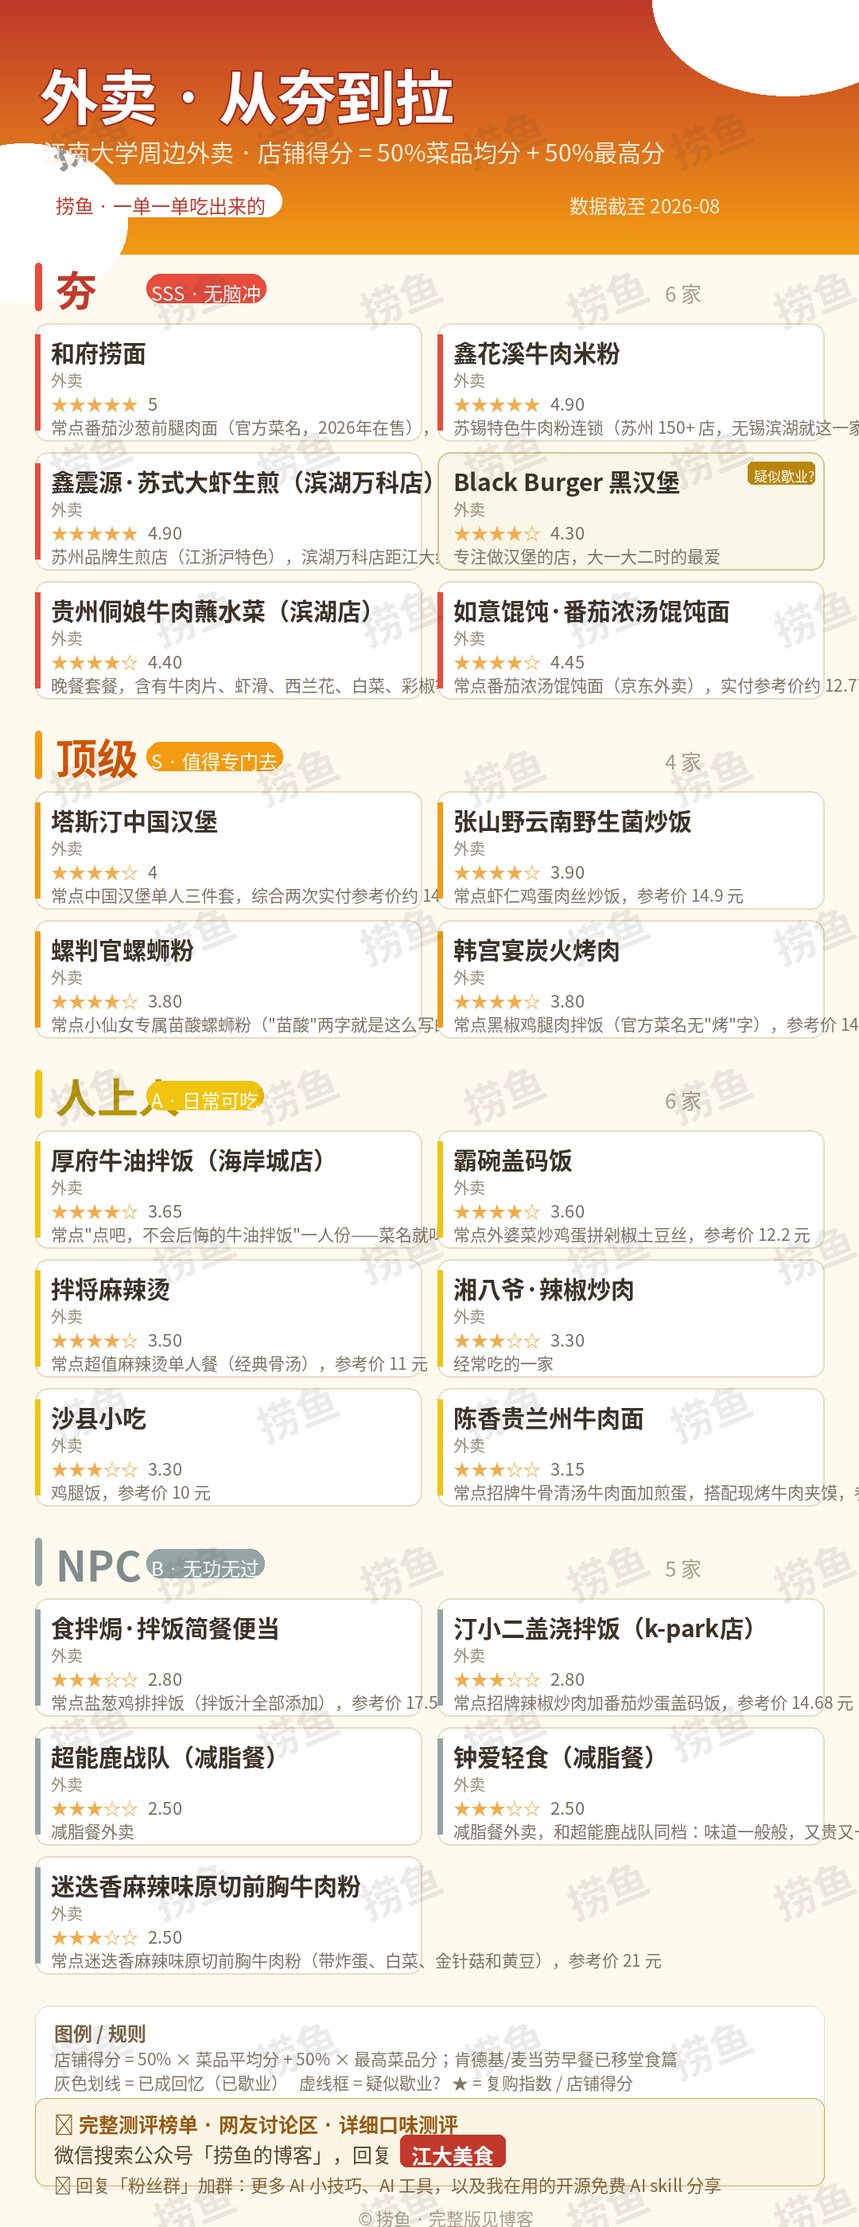
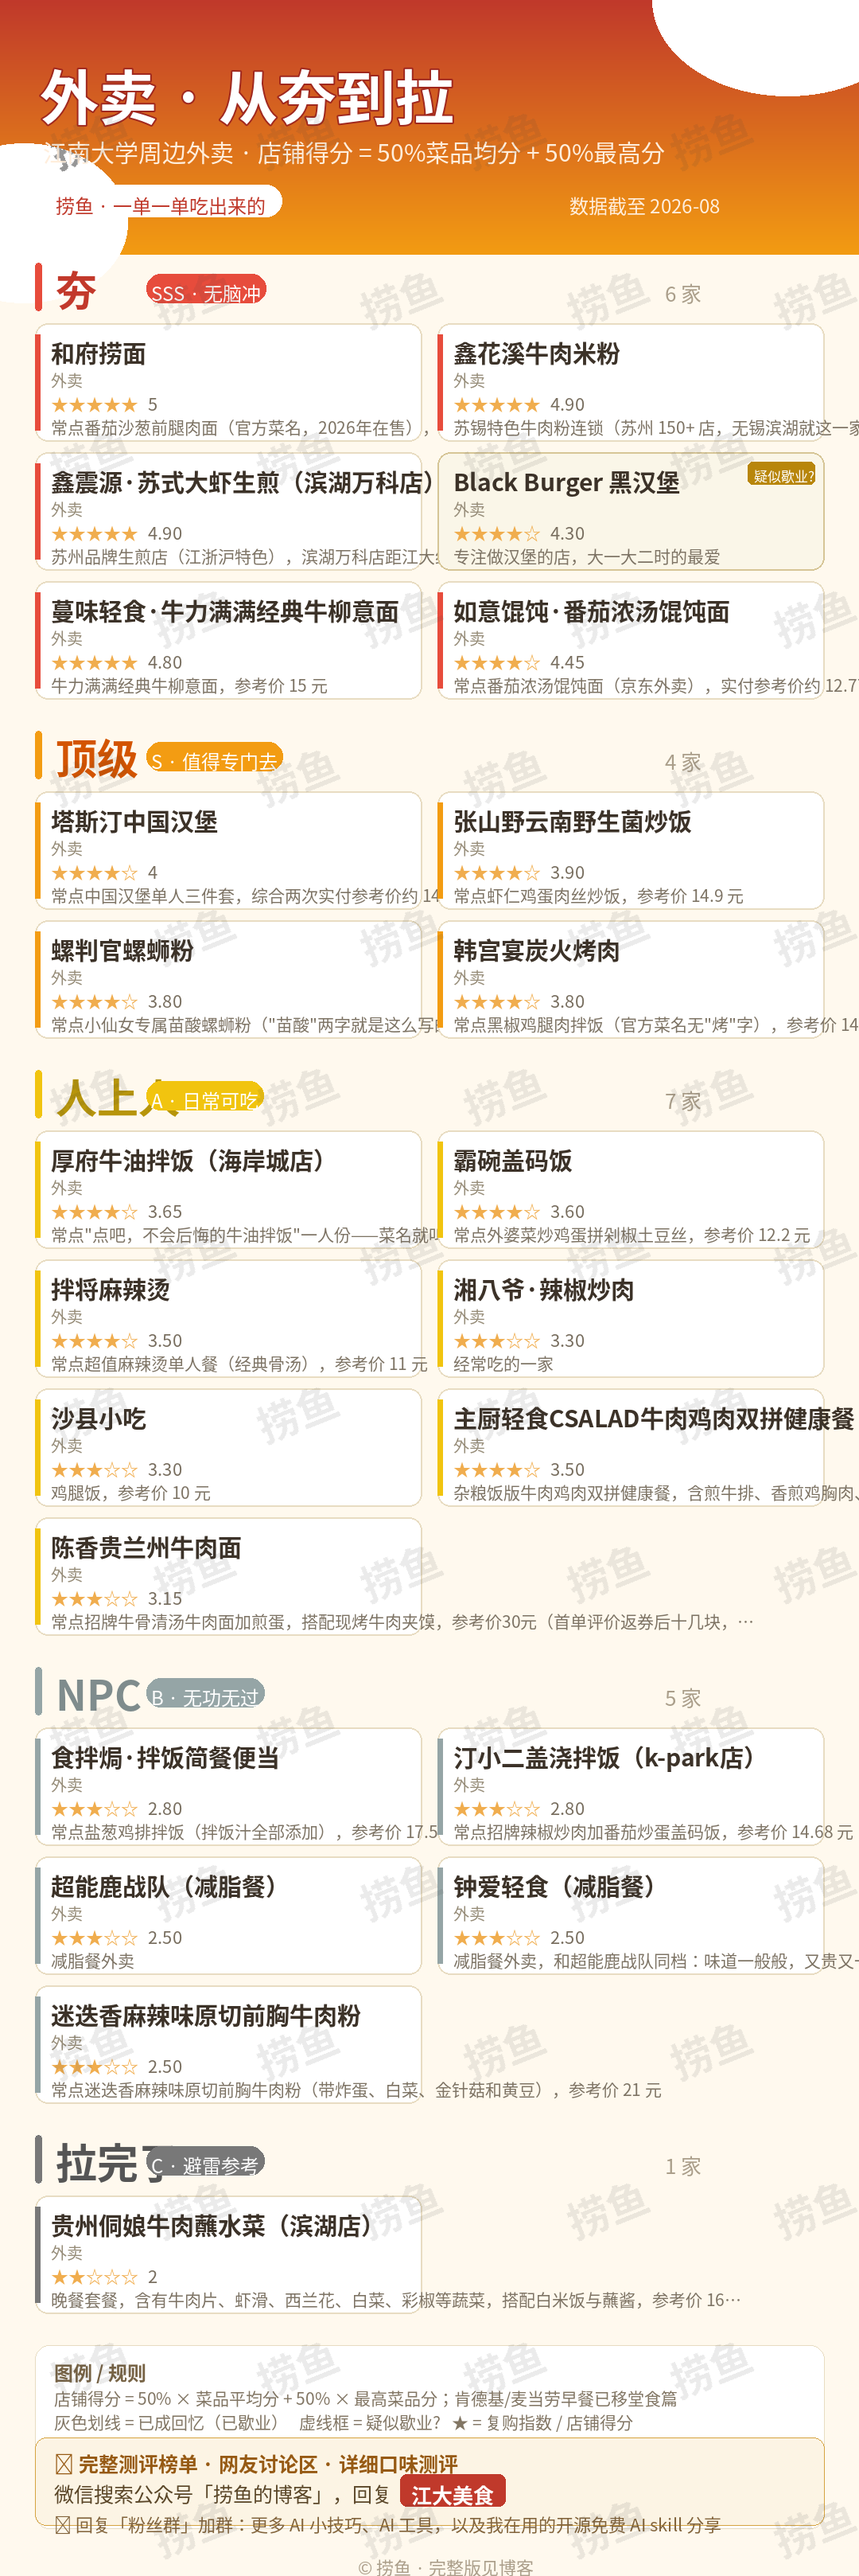
外卖排名新增蔓味轻食牛力满满经典牛柳意面(夯 4.8) + 一图流重绘

diff --git a/assets/lib-custom/takeout-tier.js b/assets/lib-custom/takeout-tier.js
@@ -224,6 +224,17 @@
       note: '和沙县鸡腿饭可以交替着吃：沙县鸡腿肉咬着爽但量少，这个量多但平平无奇。',
     },
     {
+      name: '【外卖】蔓味轻食·牛力满满经典牛柳意面',
+      tier: '夯',
+      tierLabel: '夯 · 评分 4.8',
+      rating: 4.8,
+      description:
+        '牛力满满经典牛柳意面，参考价 15 元。这顿饭非常具有性价比，味道特别特别好吃！单论味道的话绝对排在如意馄饨上面，但是碰不到鑫震源。作为减脂健康餐来说稍微有点油，而且量少，反而没吃饱。不过总的热量还可以接受（估算约 560kcal：熟黑椒意面带酱 345 + 黑椒牛柳 130 + 半个溏心蛋 35 + 混合时蔬 50，蛋白 34g/碳水 67g/脂肪 17.3g），实测出来油脂不高，挺好的。综合来说 15 块钱性价比很高，太美味了，给 4.8 星！',
+      pros: ['味道特别特别好吃', '15 元性价比很高', '蛋白质充足（34g），总热量可接受', '实测油脂不高'],
+      cons: ['作为减脂健康餐稍微有点油', '量少，没吃饱', '黑椒酱汁是隐形脂肪来源，少蘸酱可再降 40~60kcal'],
+      note: '味道排名：如意馄饨 < 蔓味轻食 < 鑫震源。',
+    },
+    {
       name: '【外卖】如意馄饨·番茄浓汤馄饨面',
       tier: '夯',
       tierLabel: '夯 · 店铺得分 4.45',

diff --git a/_posts/2026-08-15-江南大学外卖从夯到拉排名.md b/_posts/2026-08-15-江南大学外卖从夯到拉排名.md
@@ -694,5 +694,5 @@ pin: false
 
 <!-- 隐藏文本用于字数统计 -->
 <div style="display: none;">
-江南大学外卖从夯到拉排名。店铺得分等于50%菜品平均分加50%最高菜品分。多次评分加权规则（2026-09-27新增）：同一店铺/菜品有多次口味评分时，取最近一次口味评分权重50%~60%，其余历次评分均分剩余权重，得出最终得分；触及质量线（卫生/食材安全）的不走加权算法，直接降档拉完了。贵州侗娘牛肉蘸水菜滨湖店，拉完了，触及质量线（卫生）不走加权算法直接降档。2026-08-25前：店铺得分4.40，套餐16.28元，健康版加强铁盘饭，偶尔吃很好吃，肉和蔬菜营养全面；2026-08-25更新：米饭疑似拉丝卫生存疑，黑塑料餐具不考究。2026-09-27更新：避雷不再吃——看评价说肉是合成肉自己吃也是，米饭上次疑似拉丝卫生不行；虽然味道不错纸面营养数据也挺好，但触及质量线（卫生），直接打入拉完了档。主厨轻食CSALAD牛肉鸡肉双拼健康餐，人上人，评分3.5，参考价19元，杂粮饭版牛肉鸡肉双拼健康餐，含杂粮饭、煎牛排、香煎鸡胸肉、水煮蛋、贝贝南瓜、西兰花、花菜、黄瓜、玉米粒、绿叶菜，整包40g百利焙煎芝麻沙拉汁，营养约566kcal（蛋白35g/脂肪32g/碳水42g），脂肪稍多疑似蘸料问题，下次选油醋汁压一压油脂；杂粮饭量足吃得很饱，用料健康，但味道平平无奇没什么优惠，15~15.5元才合理19元偏贵；和沙县鸡腿饭可交替着吃——沙县鸡腿肉咬着爽但量少，这个量多但平平无奇。和府捞面，夯，店铺得分5.00，常点番茄沙葱前腿肉面，参考价约23.3元，外卖里性价比最高的汤面，包装特别好，满分。鑫花溪牛肉米粉，夯，店铺得分4.90，经典牛肉粉简直美美死了，香辣牛杂粉、红煨牛腩、酸汤一般；离学校5.3公里运费4.9元外卖贵两三块，附近有店建议堂食或闲鱼；第一次别加麻椒。熙盛源滨湖万达店，夯，店铺得分4.90，无锡老字号小笼馄饨，推荐小龙虾生煎，22元虾肉小馄饨加生煎双拼美味但吃不饱，25元起步，营养多有虾肉。Black Burger黑汉堡，夯，店铺得分4.30，黑汉堡25到30元加冰可乐，很好吃但沙拉酱略多，海岸城店疑似已关门。塔斯汀，顶级，店铺得分4.00，中国汉堡单人三件套约14.5元，汉堡皮好吃可乐好喝，评分锚点。张山野云南野生菌炒饭，顶级，店铺得分3.90，虾仁鸡蛋肉丝炒饭14.9元，稍油有虾仁，疑似科技狠活多不宜常吃。螺判官螺蛳粉，顶级，店铺得分3.83，小仙女专属苗酸螺蛳粉正常价18元，不加炸蛋3分加炸蛋4.1分，综合3.83。韩宫宴炭火烤肉，顶级，店铺得分3.80，黑椒鸡腿肉拌饭14.4元，营养全不太油，但哪都有量不多。厚府牛油拌饭海岸城店，人上人，店铺得分3.65，点吧不会后悔的牛油拌饭一人份14元，味道可以但蛋白质少油多，给铁勺包装有点想法。霸碗盖码饭，人上人，店铺得分3.60，外婆菜炒鸡蛋拼剁椒土豆丝12.2元，机器人炒的，太油但星星布丁觉得好吃。拌将麻辣烫，人上人，店铺得分3.50，超值麻辣烫单人餐经典骨汤11元，外卖比堂食划算，干净，味道还行。湘八爷辣椒炒肉，人上人，店铺得分3.30，西红柿炒鸡蛋盖码饭8.5元，油量控制好，不惊艳。沙县小吃，人上人，店铺得分3.30，鸡腿饭10元，健康油少量可，味道一般，评分锚点。食拌焗拌饭简餐便当，NPC，店铺得分2.80，盐葱鸡排拌饭17.5元，味道和湘八爷差不多但性价比太差量少。汀小二盖浇拌饭k-park店，NPC，店铺得分2.80，招牌辣椒炒肉加番茄炒蛋盖码饭14.68元，太油，达不到日常吃标准。超能鹿战队，NPC，店铺得分2.50估，减脂餐，又贵又一般，幽灵店无堂食卫生存疑。钟爱轻食，NPC，店铺得分2.50估，减脂餐，同上。迷迭香麻辣味原切前胸牛肉粉，NPC，店铺得分2.50，常点迷迭香麻辣味原切前胸牛肉粉（带炸蛋、白菜、金针菇和黄豆），参考价21元，太油，油多到随便一捞都是油，肥牛就一两片，性价比极差，只值12元，不过不难吃，NPC档。如意馄饨番茄浓汤馄饨面，夯，店铺得分4.45，京东外卖实付约12.77元，味道鲜美番茄汤浓郁，大品牌卫生放心，防坨处理细节加分，科研吃法馄饨面泡米饭高中回忆杀，但外卖包装细节不如和府捞面。陈香贵兰州牛肉面，人上人，店铺得分3.15，常点招牌牛骨清汤牛肉面加煎蛋配现烤牛肉夹馍，参考价30元（首单评价返券后十几块，正常价25~28元，堂食无限加面约20元），兰州牛肉拉面味道正宗好吃，肉夹馍千层酥皮很好吃，肉给得足，但正常价偏贵，光吃面量偏少，不加肉夹馍吃不饱。肯德基和麦当劳的早餐组合不属于外卖品类，已移至堂食篇早餐档。本排名持续更新。
+江南大学外卖从夯到拉排名。店铺得分等于50%菜品平均分加50%最高菜品分。多次评分加权规则（2026-09-27新增）：同一店铺/菜品有多次口味评分时，取最近一次口味评分权重50%~60%，其余历次评分均分剩余权重，得出最终得分；触及质量线（卫生/食材安全）的不走加权算法，直接降档拉完了。贵州侗娘牛肉蘸水菜滨湖店，拉完了，触及质量线（卫生）不走加权算法直接降档。2026-08-25前：店铺得分4.40，套餐16.28元，健康版加强铁盘饭，偶尔吃很好吃，肉和蔬菜营养全面；2026-08-25更新：米饭疑似拉丝卫生存疑，黑塑料餐具不考究。2026-09-27更新：避雷不再吃——看评价说肉是合成肉自己吃也是，米饭上次疑似拉丝卫生不行；虽然味道不错纸面营养数据也挺好，但触及质量线（卫生），直接打入拉完了档。主厨轻食CSALAD牛肉鸡肉双拼健康餐，人上人，评分3.5，参考价19元，杂粮饭版牛肉鸡肉双拼健康餐，含杂粮饭、煎牛排、香煎鸡胸肉、水煮蛋、贝贝南瓜、西兰花、花菜、黄瓜、玉米粒、绿叶菜，整包40g百利焙煎芝麻沙拉汁，营养约566kcal（蛋白35g/脂肪32g/碳水42g），脂肪稍多疑似蘸料问题，下次选油醋汁压一压油脂；杂粮饭量足吃得很饱，用料健康，但味道平平无奇没什么优惠，15~15.5元才合理19元偏贵；和沙县鸡腿饭可交替着吃——沙县鸡腿肉咬着爽但量少，这个量多但平平无奇。和府捞面，夯，店铺得分5.00，常点番茄沙葱前腿肉面，参考价约23.3元，外卖里性价比最高的汤面，包装特别好，满分。鑫花溪牛肉米粉，夯，店铺得分4.90，经典牛肉粉简直美美死了，香辣牛杂粉、红煨牛腩、酸汤一般；离学校5.3公里运费4.9元外卖贵两三块，附近有店建议堂食或闲鱼；第一次别加麻椒。熙盛源滨湖万达店，夯，店铺得分4.90，无锡老字号小笼馄饨，推荐小龙虾生煎，22元虾肉小馄饨加生煎双拼美味但吃不饱，25元起步，营养多有虾肉。Black Burger黑汉堡，夯，店铺得分4.30，黑汉堡25到30元加冰可乐，很好吃但沙拉酱略多，海岸城店疑似已关门。塔斯汀，顶级，店铺得分4.00，中国汉堡单人三件套约14.5元，汉堡皮好吃可乐好喝，评分锚点。张山野云南野生菌炒饭，顶级，店铺得分3.90，虾仁鸡蛋肉丝炒饭14.9元，稍油有虾仁，疑似科技狠活多不宜常吃。螺判官螺蛳粉，顶级，店铺得分3.83，小仙女专属苗酸螺蛳粉正常价18元，不加炸蛋3分加炸蛋4.1分，综合3.83。韩宫宴炭火烤肉，顶级，店铺得分3.80，黑椒鸡腿肉拌饭14.4元，营养全不太油，但哪都有量不多。厚府牛油拌饭海岸城店，人上人，店铺得分3.65，点吧不会后悔的牛油拌饭一人份14元，味道可以但蛋白质少油多，给铁勺包装有点想法。霸碗盖码饭，人上人，店铺得分3.60，外婆菜炒鸡蛋拼剁椒土豆丝12.2元，机器人炒的，太油但星星布丁觉得好吃。拌将麻辣烫，人上人，店铺得分3.50，超值麻辣烫单人餐经典骨汤11元，外卖比堂食划算，干净，味道还行。湘八爷辣椒炒肉，人上人，店铺得分3.30，西红柿炒鸡蛋盖码饭8.5元，油量控制好，不惊艳。沙县小吃，人上人，店铺得分3.30，鸡腿饭10元，健康油少量可，味道一般，评分锚点。食拌焗拌饭简餐便当，NPC，店铺得分2.80，盐葱鸡排拌饭17.5元，味道和湘八爷差不多但性价比太差量少。汀小二盖浇拌饭k-park店，NPC，店铺得分2.80，招牌辣椒炒肉加番茄炒蛋盖码饭14.68元，太油，达不到日常吃标准。超能鹿战队，NPC，店铺得分2.50估，减脂餐，又贵又一般，幽灵店无堂食卫生存疑。钟爱轻食，NPC，店铺得分2.50估，减脂餐，同上。迷迭香麻辣味原切前胸牛肉粉，NPC，店铺得分2.50，常点迷迭香麻辣味原切前胸牛肉粉（带炸蛋、白菜、金针菇和黄豆），参考价21元，太油，油多到随便一捞都是油，肥牛就一两片，性价比极差，只值12元，不过不难吃，NPC档。如意馄饨番茄浓汤馄饨面，夯，店铺得分4.45，京东外卖实付约12.77元，味道鲜美番茄汤浓郁，大品牌卫生放心，防坨处理细节加分，科研吃法馄饨面泡米饭高中回忆杀，但外卖包装细节不如和府捞面。蔓味轻食牛力满满经典牛柳意面，夦，评分4.8，参考价15元，味道特别特别好吃，单论味道排在如意馄饨上面但碰不到鑫震源；减脂健康餐稍有点油且量少没吃饱，但总热量可接受（约560kcal，蛋白34g），实测油脂不高，15元性价比很高。味道排名：如意馄饨<蔓味轻食<鑫震源。陈香贵兰州牛肉面，人上人，店铺得分3.15，常点招牌牛骨清汤牛肉面加煎蛋配现烤牛肉夹馍，参考价30元（首单评价返券后十几块，正常价25~28元，堂食无限加面约20元），兰州牛肉拉面味道正宗好吃，肉夹馍千层酥皮很好吃，肉给得足，但正常价偏贵，光吃面量偏少，不加肉夹馍吃不饱。肯德基和麦当劳的早餐组合不属于外卖品类，已移至堂食篇早餐档。本排名持续更新。
 </div>
